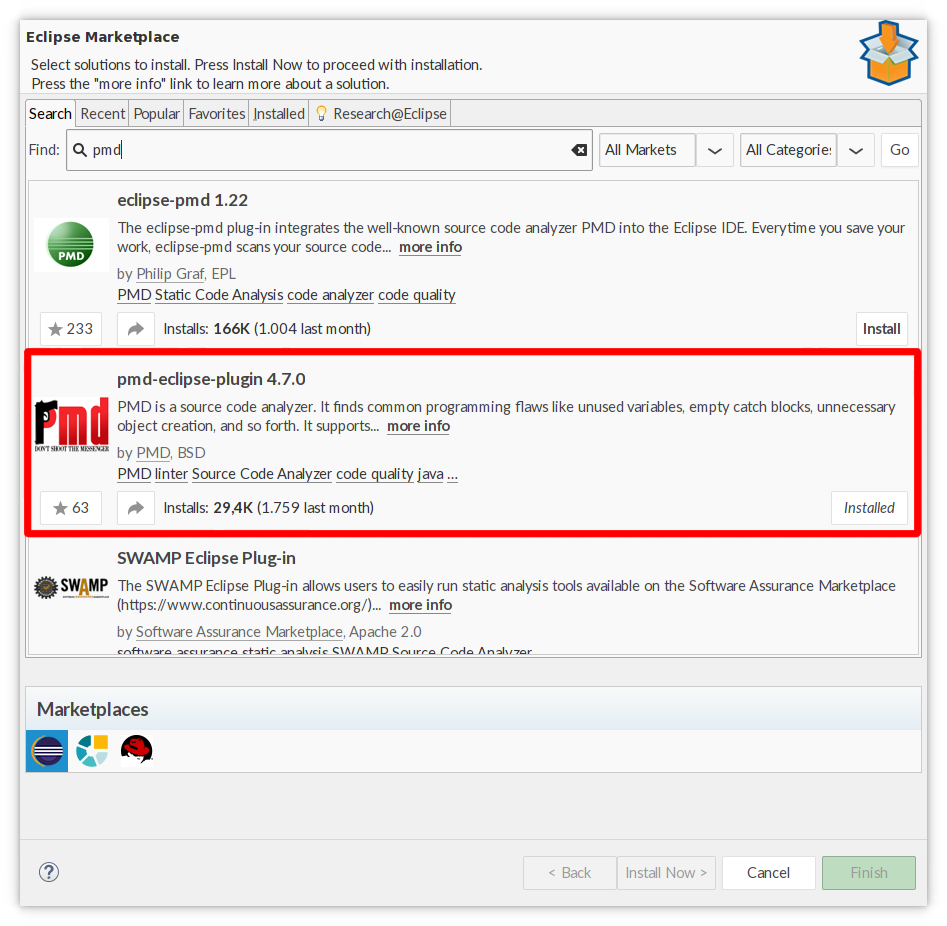
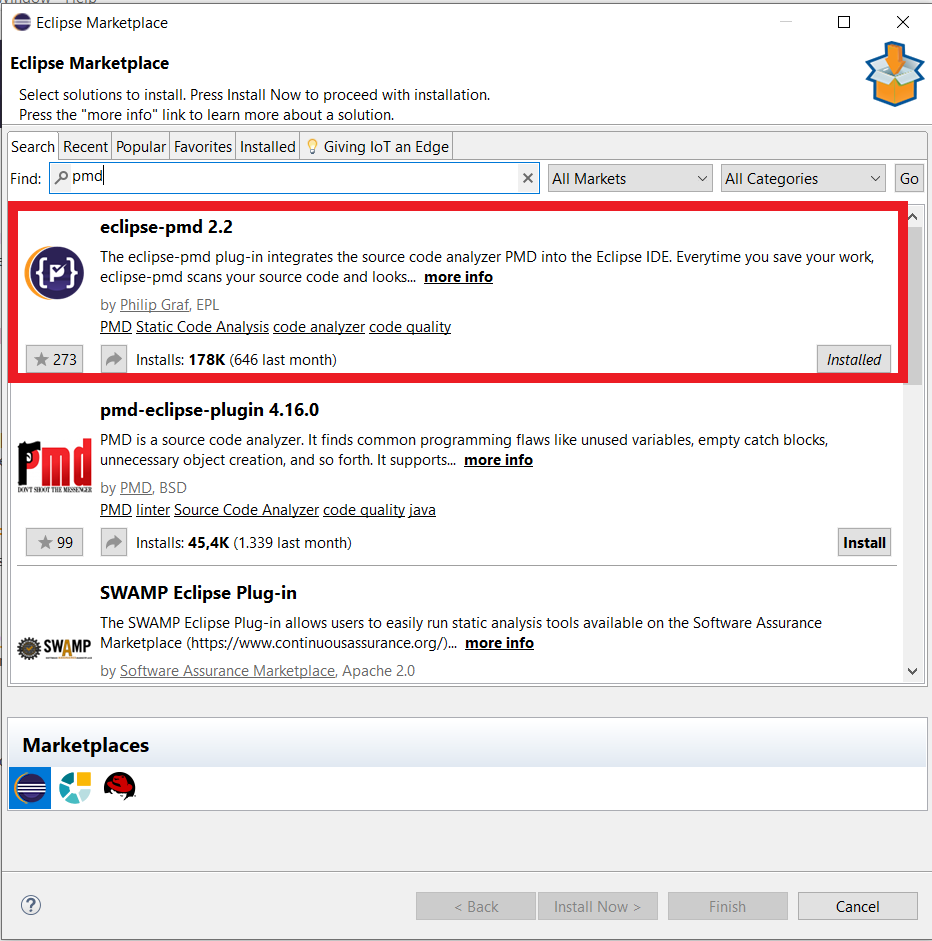
change pmd plugin

Changed region(s): [[0.0, 0.0, 1.0, 1.0]]

diff --git a/index.md b/index.md
@@ -288,7 +288,7 @@ Eclipse utilizza un'architettura a plug-in. Lungo il corso ne utilizzeremo alcun
 ![Missing image](img/win10/install_eclipse/install_plugins_marketplace/1.png)
 
 * Nella barra di ricerca, inserire "pmd", quindi premere Invio
-* Appariranno più plugin, uno dei plugin trovati dovrebbe essere pmd-eclipse-plugin. *ATTENZIONE:* I diversi plugin PMD *confliggono fra loro*, installare solo quello suggerito. Lo si identifichi utilizzando l'immagine seguente:
+* Appariranno più plugin, uno dei plugin trovati dovrebbe essere eclipse-pmd. *ATTENZIONE:* I diversi plugin PMD *confliggono fra loro*, installare solo quello suggerito. Lo si identifichi utilizzando l'immagine seguente:
 
 ![Missing image](img/eclipse/pmd.png)
 
